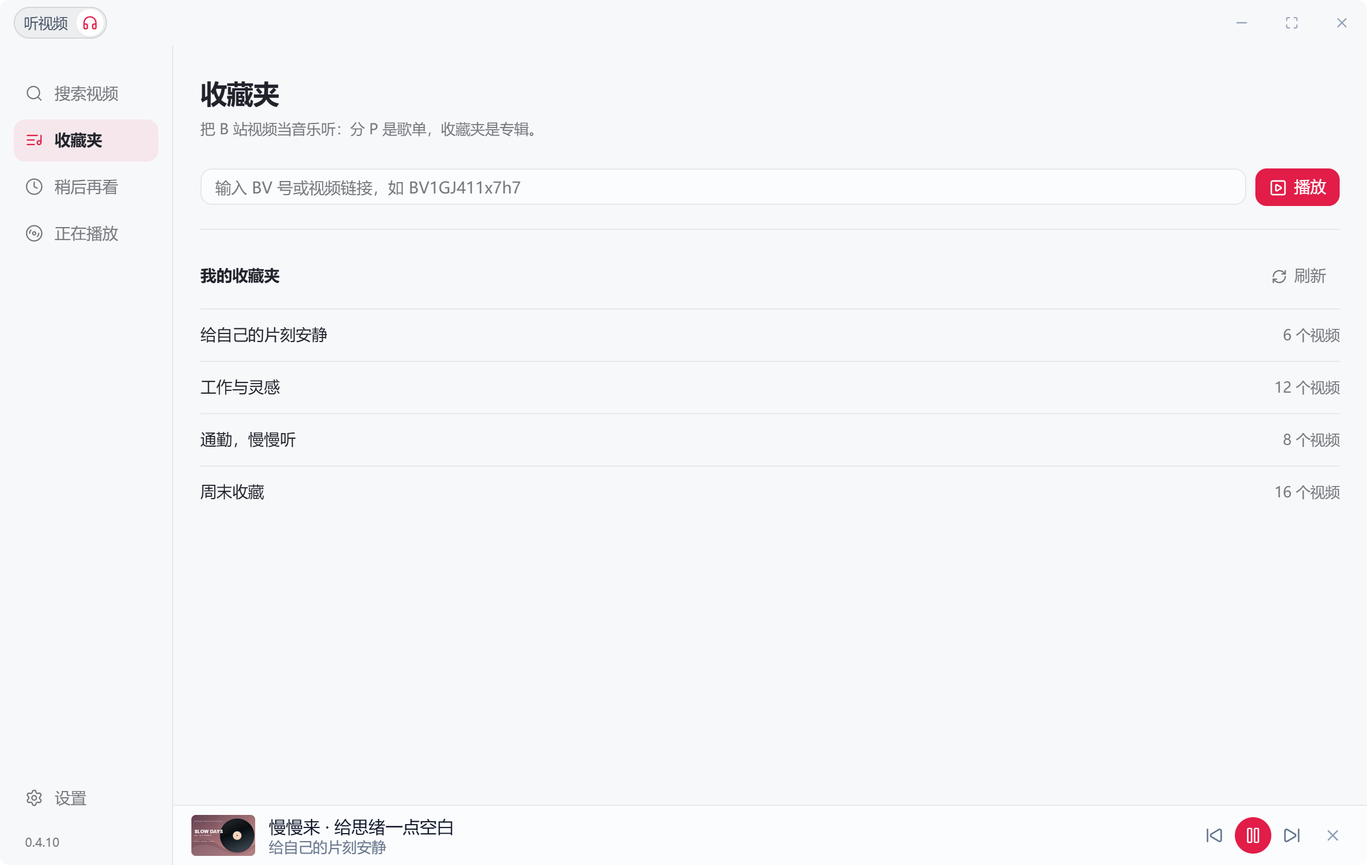
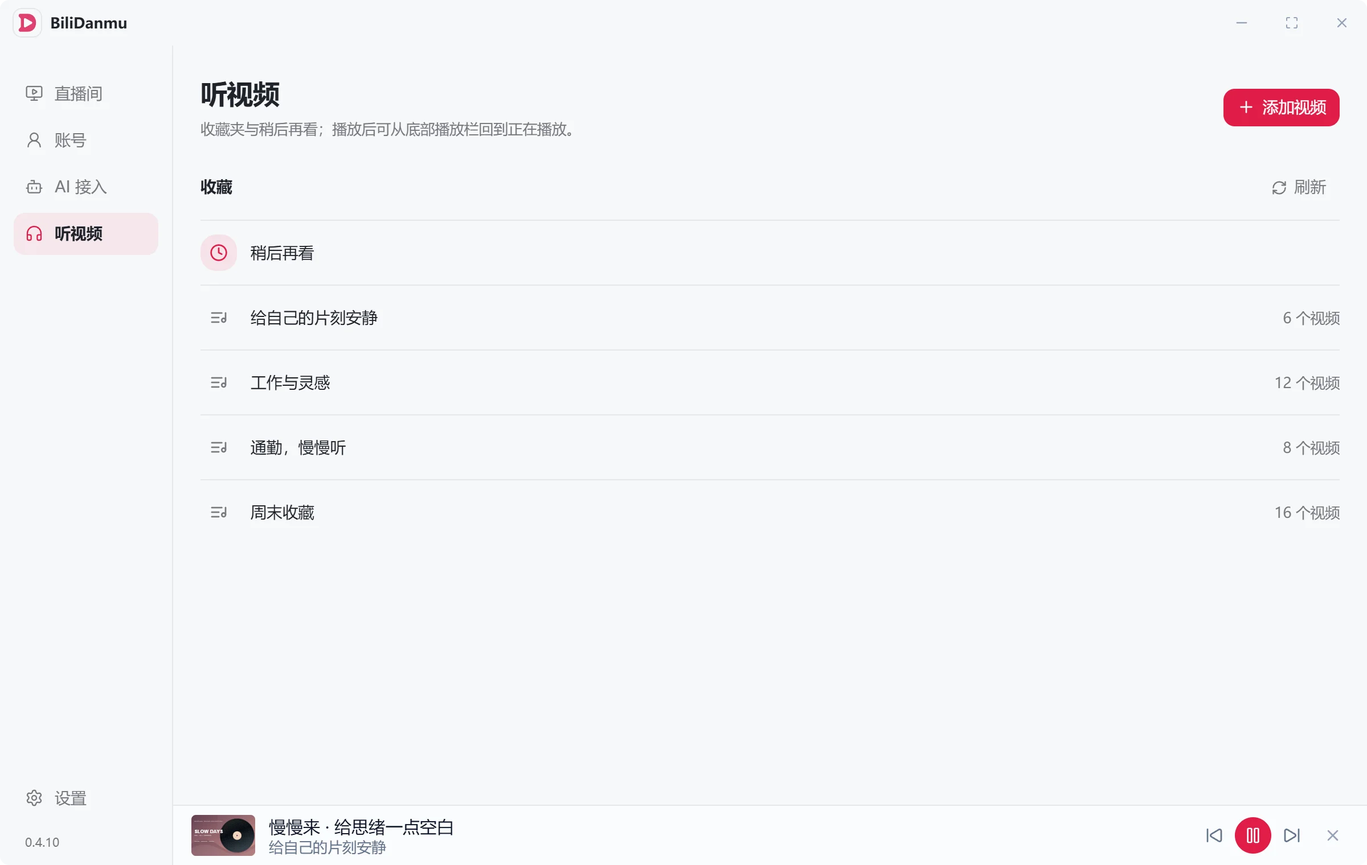
fix(docs): 恢复误删样式并对齐落地页素材与章节演示到新版界面

diff --git a/docs/.vitepress/theme/landing.css b/docs/.vitepress/theme/landing.css
@@ -7,11 +7,12 @@
 .lp-interaction-chapter{min-height:200svh}.lp-step-buttons{display:flex;flex-direction:column;gap:1px;margin-top:26px}.lp-step-buttons button{display:flex;align-items:center;gap:12px;text-align:left;background:transparent;border:0;border-bottom:1px solid var(--lp-line);padding:13px 0;color:#8996a4;font-size:12px;transition:color .2s}.lp-step-buttons button>span:first-child{font-size:9px;color:#b2bbc6}.lp-step-buttons button>span:last-child{margin-left:auto;opacity:0}.lp-step-buttons button[aria-pressed=true]{color:var(--lp-accent)}.lp-step-buttons button[aria-pressed=true]>span:last-child{opacity:1}.lp-step-buttons button:hover{color:var(--lp-ink)}.lp-reset-demo{padding:0;background:transparent;border:0;color:#8b9aaa;font-size:10px;margin-top:15px}.lp-interaction-board{background:#f7f9fc;border:1px solid #dde5ef;border-radius:15px;box-shadow:0 22px 55px #354b6c12;max-width:620px;width:100%;margin-left:auto;overflow:hidden;font-size:13px}.lp-board-top{padding:17px 22px;display:flex;justify-content:space-between;align-items:center;border-bottom:1px solid #e3e9f0;font-size:10px;color:#8a9bae}.lp-board-top>div{display:flex;align-items:center;gap:9px}.lp-board-top strong{font-size:13px;font-weight:600;color:#4c627c}.lp-interaction-tabs{display:flex;gap:24px;padding:12px 22px;background:#f2f5f9;font-size:11px;color:#98a8b9}.lp-interaction-tabs .active{color:#dd4c73}.lp-message-stage{padding:20px 22px 0;min-height:389px}.lp-superchat{margin-bottom:17px;border-radius:6px;overflow:hidden;background:#e8f2ff;color:#3f6e9f;font-size:12px}.lp-superchat>div{display:flex;justify-content:space-between;padding:7px 10px}.lp-superchat p{padding:10px;background:#4a77a7;color:white;font-size:14px}.lp-message-line{display:flex;flex-wrap:wrap;gap:7px;margin-top:13px;align-items:center;font-size:12px;line-height:1.6}.lp-message-line b{font-weight:600}.lp-fan-badge{background:#bc83aa;color:#fff;font-size:9px;padding:1px 4px;border-radius:3px}.lp-blue-name{color:#3181c5}.lp-own-message{color:#576b82}.lp-own-message b{color:#dd4c73}.lp-inline-panel{margin-top:25px;background:#fff;border:1px solid #e0e7ef;border-radius:9px;padding:13px 15px;min-height:100px}.lp-panel-label{display:block;font-size:10px;color:#9aa8b9;margin-bottom:10px}.lp-inline-panel p{font-size:9px;color:#9aa8b9;margin-top:10px;line-height:1.6}.lp-filter-panel>div{display:flex;align-items:center;gap:17px;font-size:11px;color:#a0afbe}.lp-filter-chip{color:#df4e79;background:#f9e8ef;padding:3px 9px;border-radius:4px}.lp-muted-chip{margin-left:auto;border:1px solid #e2e7ed;padding:3px 8px;border-radius:4px;font-size:9px}.lp-emoticon-demo{display:flex;gap:9px;align-items:center}.lp-emoticon-demo button{display:grid;place-items:center;height:32px;min-width:35px;background:#f5f7fb;border:1px solid #e8edf3;border-radius:5px;font-size:20px;color:#e3567d}.lp-emoticon-demo button:last-child{display:flex;gap:12px;margin-left:auto;font-size:10px;padding:0 9px;color:#788ba1}.lp-emoticon-demo button:hover{border-color:#e68ba5}.lp-account-demo{display:flex;align-items:center;gap:10px;font-size:11px}.lp-avatar{display:grid;place-items:center;width:24px;height:24px;border-radius:50%;background:#e5edf7;color:#6d85a1;font-size:9px}.lp-state-pill{font-size:9px;color:#a18ba6;margin-left:auto}.lp-automation-demo{display:flex;justify-content:space-between;margin-top:13px;font-size:10px;color:#75869a}.lp-automation-demo small{font-size:8px;padding-left:8px;color:#9fabb9}.lp-demo-composer{margin:21px 22px 0;display:flex;border-top:1px solid #e1e7ef;padding-top:12px;gap:12px}.lp-demo-composer input{width:100%;min-width:0;background:transparent;border:0;outline-offset:2px;font-size:12px;color:#485d74}.lp-demo-composer input::placeholder{color:#a1afbf}.lp-demo-composer button{white-space:nowrap;background:#e7517b;color:white;border:0;border-radius:5px;padding:6px 11px;font-size:10px}.lp-demo-composer button:disabled{opacity:.4;cursor:default}.lp-demo-foot{display:flex;justify-content:space-between;padding:12px 22px 15px;color:#a5b0bd;font-size:8px;gap:10px}
 .lp-listen-chapter{min-height:200svh;background:linear-gradient(180deg,#fcfdff,#f8f5f8 35%,#f8f5f8 75%,#fcfdff)}.lp-listen-guide{margin-top:25px}.lp-listen-visual{min-width:0;margin-right:-24px;position:relative}.lp-listen-screen{position:relative;aspect-ratio:2400/1520;border:1px solid #e0e5ed;border-radius:11px;box-shadow:0 23px 55px #4e597419;overflow:hidden;transform:perspective(1400px) rotateY(-4deg) rotateZ(-2deg);background:#f7f8fa}.lp-listen-screen img{position:absolute;inset:0;width:100%;height:auto;opacity:0;transform:translateX(14px);transition:opacity .35s var(--lp-ease),transform .35s var(--lp-ease)}.lp-listen-screen img.active{opacity:1;transform:none}.lp-listen-status{display:flex;align-items:center;gap:12px;margin-top:30px;color:#8b9aaa;font-size:10px}.lp-listen-status>span:last-child{margin-left:auto;color:#a5afbb;font-size:9px}.lp-equalizer{height:19px;display:flex;gap:3px;align-items:center}.lp-equalizer i{display:block;width:2px;height:5px;border-radius:2px;background:#cf7590}.lp-equalizer.is-playing i{animation:lp-meter .85s ease-in-out infinite alternate}.lp-equalizer i:nth-child(2){animation-delay:-.5s}.lp-equalizer i:nth-child(3){animation-delay:-.2s}.lp-equalizer i:nth-child(4){animation-delay:-.7s}@keyframes lp-meter{to{transform:scaleY(3)}}
 .lp-reading{display:grid;grid-template-columns:1fr 1.15fr;gap:130px;align-items:center;padding-block:100px 150px}.lp-reading h2{font-size:35px}.lp-reading .lp-text-link{margin-top:25px}.lp-subtitle-demo{padding:0 8px}.lp-subtitle-top{display:flex;justify-content:space-between;font-size:10px;color:#9aa8b7;border-bottom:1px solid var(--lp-line);padding-bottom:17px}.lp-subtitle-demo>button{width:100%;display:flex;align-items:center;gap:17px;padding:21px 0;border:0;background:transparent;text-align:left;font-size:15px;color:#a5afbc;transition:color .25s,transform .25s var(--lp-ease)}.lp-subtitle-demo>button time{font-size:10px;color:#aab5c1;font-variant-numeric:tabular-nums}.lp-subtitle-demo>button>span:last-child{margin-left:auto;opacity:0}.lp-subtitle-demo>button.active{color:var(--lp-accent);transform:translateX(7px)}.lp-subtitle-demo>button.active>span:last-child{opacity:1}.lp-subtitle-demo>p{font-size:10px;color:#aab5c1;padding-top:15px;border-top:1px solid var(--lp-line)}
-.lp-appearance{background:#f1f4f8;padding-block:110px}.lp-appearance-grid{display:grid;grid-template-columns:.8fr 1.2fr;gap:100px;align-items:center}.lp-appearance-controls{display:flex;gap:25px;align-items:center;margin-top:30px}.lp-theme-toggle{display:flex;gap:3px;padding:3px;background:#e7ecf2;border-radius:7px}.lp-theme-toggle button{padding:8px 13px;border:0;border-radius:5px;background:transparent;color:#91a0b0;font-size:11px}.lp-theme-toggle button[aria-pressed=true]{background:#fff;color:#44586e;box-shadow:0 1px 4px #24364b0b}.lp-color-options{display:flex;gap:10px}.lp-color-options button{width:21px;height:21px;border:0;border-radius:50%;color:#fff;font-size:11px;display:grid;place-items:center}.lp-small-copy{font-size:10px!important;color:#97a4b3!important}.lp-theme-preview{--preview-bg:#fafbfd;--preview-soft:#f1f4f8;--preview-ink:#3e5269;--preview-muted:#94a4b5;--preview-line:#e2e8f0;background:var(--preview-bg);border:1px solid #dce4ed;border-radius:13px;overflow:hidden;box-shadow:0 20px 45px #34486117;transition:background .25s,color .25s;transform:rotate(-2deg);color:var(--preview-ink)}.lp-theme-preview.is-dark{--preview-bg:#232b39;--preview-soft:#202735;--preview-ink:#dce4f1;--preview-muted:#8898ae;--preview-line:#384458;border-color:#404d61}.lp-theme-bar{height:46px;display:flex;gap:9px;align-items:center;padding:0 16px;font-size:11px;border-bottom:1px solid var(--preview-line);background:var(--preview-soft)}.lp-theme-bar>span:last-child{margin-left:auto;color:var(--preview-muted);font-size:9px}.lp-theme-bar img{object-fit:contain}.lp-theme-body{display:grid;grid-template-columns:100px 1fr;min-height:250px}.lp-theme-body aside{display:flex;flex-direction:column;gap:22px;padding:23px 14px;background:var(--preview-soft);font-size:11px;color:var(--preview-muted)}.lp-theme-body aside b{font-weight:500;color:var(--preview-accent)}.lp-theme-body>div{padding:25px 22px}.lp-theme-heading{display:flex;align-items:center;justify-content:space-between;margin-bottom:19px}.lp-theme-heading h3{font-size:15px;font-weight:600}.lp-theme-heading>span{font-size:9px;color:var(--preview-muted)}.lp-theme-room{display:flex;align-items:center;gap:12px;padding:12px 0;border-bottom:1px solid var(--preview-line)}.lp-theme-room:last-child{border-bottom:0}.lp-theme-room img{width:57px;height:38px;object-fit:cover;border-radius:4px}.lp-theme-room>span:nth-child(2){min-width:0}.lp-theme-room b{display:block;font-size:11px;font-weight:500}.lp-theme-room small{display:block;font-size:9px;color:var(--preview-muted);max-width:200px;text-overflow:ellipsis;overflow:hidden;white-space:nowrap;margin-top:4px}.lp-preview-live{margin-left:auto;color:var(--preview-accent);font-size:9px;white-space:nowrap}.lp-theme-footer{padding:11px 17px;background:var(--preview-soft);color:var(--preview-muted);font-size:9px;border-top:1px solid var(--preview-line)}
+.lp-appearance{background:#f1f4f8;padding-block:110px}.lp-appearance-grid{display:grid;grid-template-columns:.8fr 1.2fr;gap:100px;align-items:center}.lp-appearance-controls{display:flex;gap:25px;align-items:center;margin-top:30px}.lp-theme-toggle{display:flex;gap:3px;padding:3px;background:#e7ecf2;border-radius:7px}.lp-theme-toggle button{padding:8px 13px;border:0;border-radius:5px;background:transparent;color:#91a0b0;font-size:11px}.lp-theme-toggle button[aria-pressed=true]{background:#fff;color:#44586e;box-shadow:0 1px 4px #24364b0b}.lp-color-options{display:flex;gap:10px}.lp-color-options button{width:21px;height:21px;border:0;border-radius:50%;color:#fff;font-size:11px;display:grid;place-items:center}.lp-small-copy{font-size:10px!important;color:#97a4b3!important}.lp-theme-preview{--preview-bg:#fafbfd;--preview-soft:#f1f4f8;--preview-ink:#3e5269;--preview-muted:#94a4b5;--preview-line:#e2e8f0;background:var(--preview-bg);border:1px solid #dce4ed;border-radius:13px;overflow:hidden;box-shadow:0 20px 45px #34486117;transition:background .25s,color .25s;transform:rotate(-2deg);color:var(--preview-ink)}.lp-theme-preview.is-dark{--preview-bg:#232b39;--preview-soft:#202735;--preview-ink:#dce4f1;--preview-muted:#8898ae;--preview-line:#384458;border-color:#404d61}.lp-theme-bar{height:46px;display:flex;gap:9px;align-items:center;padding:0 16px;font-size:11px;border-bottom:1px solid var(--preview-line);background:var(--preview-soft)}.lp-theme-bar>span:last-child{margin-left:auto;color:var(--preview-muted);font-size:9px}.lp-theme-bar img{object-fit:contain}.lp-theme-body{display:grid;grid-template-columns:100px 1fr;min-height:250px}.lp-theme-body aside{display:flex;flex-direction:column;gap:22px;padding:23px 14px;background:var(--preview-soft);font-size:11px;color:var(--preview-muted)}.lp-theme-body aside b{font-weight:500;color:var(--preview-accent)}.lp-theme-body>div{padding:25px 22px}.lp-theme-heading{display:flex;align-items:center;justify-content:space-between;margin-bottom:19px}.lp-theme-heading h3{font-size:15px;font-weight:600}.lp-theme-heading>span{font-size:9px;color:var(--preview-muted)}.lp-theme-room{display:flex;align-items:center;gap:12px;padding:12px 0;border-bottom:1px solid var(--preview-line)}.lp-theme-room:last-child{border-bottom:0}.lp-theme-room img{width:57px;height:38px;object-fit:cover;border-radius:4px}.lp-theme-room>span:nth-child(2){min-width:0}.lp-theme-room b{display:block;font-size:11px;font-weight:500}.lp-theme-room small{display:block;font-size:9px;color:var(--preview-muted);max-width:200px;text-overflow:ellipsis;overflow:hidden;white-space:nowrap;margin-top:4px}.lp-preview-live{margin-left:auto;color:var(--preview-accent);font-size:9px;white-space:nowrap}.lp-theme-footer{padding:11px 17px;background:var(--preview-soft);color:var(--preview-muted);font-size:9px;border-top:1px solid var(--preview-line)}.lp-section-heading{display:flex;align-items:flex-end;justify-content:space-between;gap:40px;margin-bottom:45px}.lp-section-heading>p{font-size:12px;color:#8493a4;line-height:1.9}.lp-section-heading h2{font-size:34px}.lp-start-section{background:#f4f6f9;padding-block:90px 100px}.lp-start-steps{list-style:none;margin:55px 0 0;padding:0;display:grid;grid-template-columns:repeat(3,minmax(0,1fr));gap:65px}.lp-start-steps li{border-top:1px solid #dce3eb;padding-top:23px}.lp-start-steps li>span{font-size:11px;color:#a1aebb}.lp-start-steps h3{font-size:18px;font-weight:550;margin-top:15px;letter-spacing:-.03em}.lp-start-steps p{font-size:12px;line-height:1.9;color:#8796a7;margin-top:12px;min-height:50px}.lp-start-steps a{display:inline-block;margin-top:22px;font-size:11px;color:#5e738a}.lp-start-steps a:hover{color:var(--lp-accent)}
 .lp-faq{display:grid;grid-template-columns:.75fr 1.25fr;gap:100px;padding-block:110px}.lp-faq h2{font-size:30px}.lp-faq-list details{border-bottom:1px solid var(--lp-line)}.lp-faq-list details:first-child{border-top:1px solid var(--lp-line)}.lp-faq-list summary{list-style:none;display:flex;align-items:center;justify-content:space-between;gap:20px;padding:21px 0;font-size:13px;cursor:pointer}.lp-faq-list summary::-webkit-details-marker{display:none}.lp-faq-list summary>span{font-size:15px;color:#95a5b5;transition:transform .2s}.lp-faq-list details[open] summary>span{transform:rotate(45deg)}.lp-faq-list details p{padding:0 32px 22px 0;font-size:12px;line-height:1.9;color:#8795a6}.lp-faq-list details a{color:var(--lp-accent);text-decoration:underline}.lp-final-cta{text-align:center;padding-block:40px 110px}.lp-final-cta>img{display:block;object-fit:contain;margin:auto auto 16px}.lp-final-cta h2{font-size:37px;line-height:1.45}.lp-final-cta .lp-button{margin-top:29px}.lp-final-cta>p{font-size:10px;color:#9dabb8;margin-top:17px}.lp-footer{display:flex;flex-wrap:wrap;align-items:center;gap:25px;padding-block:28px;border-top:1px solid var(--lp-line)}.lp-footer .lp-brand{font-size:17px}.lp-footer>p{font-size:11px;color:#9aa6b5}.lp-footer>div{margin-left:auto;display:flex;gap:24px;color:#8393a6;font-size:11px}.lp-footer small{flex-basis:100%;font-size:9px;color:#b0bac7;padding-left:42px}.lp-footer a:hover{color:var(--lp-accent)}
 .lp-film-dialog{width:min(1100px,calc(100vw - 40px));max-height:calc(100svh - 40px);border:1px solid #dfe5ed;border-radius:14px;background:#fcfdff;color:#354861;padding:0;overflow:auto;box-shadow:0 30px 90px #15223945}.lp-film-dialog::backdrop{background:#182438b8;backdrop-filter:blur(7px)}.lp-film-dialog-inner>div{display:flex;align-items:center;justify-content:space-between;padding:17px 22px;gap:20px}.lp-film-dialog h2{font-size:13px;letter-spacing:0;font-weight:550}.lp-film-dialog button{border:0;background:transparent;color:#7f8fa2;font-size:12px;padding:5px;cursor:pointer}.lp-film-dialog video{width:100%;display:block;max-height:76svh;background:#f4f7fc}.lp-film-dialog p{font-size:10px;color:#9eabba;padding:14px 22px}.lp-mobile-only{display:none}.lp-reveal.is-visible{animation:lp-reveal .65s var(--lp-ease) both}@keyframes lp-reveal{from{opacity:.2;transform:translateY(18px)}to{opacity:1;transform:translateY(0)}}
 @media(min-width:1700px){.lp-hero-stage{max-width:770px}.lp-chapter-inner{gap:70px}.lp-hero{min-height:830px}}
 @media(max-width:1100px){.lp-container{width:calc(100% - 60px)}.lp-nav-wrap{width:calc(100% - 48px);gap:20px}.lp-nav{gap:18px}.lp-hero{grid-template-columns:46% 54%;padding-block:80px 100px}.lp-hero h1{font-size:47px}.lp-hero-stage{width:calc(100% + 20px)}.lp-hero-actions{gap:18px;flex-wrap:wrap}.lp-chapter-inner{gap:30px;grid-template-columns:.8fr 1.4fr}.lp-chapter-copy>p:not(.lp-section-number){font-size:13px}.landing h2{font-size:35px}.lp-interaction-tabs{gap:18px}.lp-reading{gap:70px}.lp-appearance-grid{gap:50px}.lp-theme-body{grid-template-columns:80px 1fr}.lp-theme-body>div{padding:23px 17px}.lp-preview-live{display:none}.lp-message-stage{padding:18px 18px 0}.lp-theme-room small{max-width:145px}.lp-start-steps{gap:35px}.lp-faq{gap:60px}.lp-emoticon-demo button:last-child{font-size:9px}.lp-system-note{font-size:10px}}
+@media(max-width:800px){.lp-container{width:calc(100% - 40px)}.lp-header{height:66px}.lp-nav-wrap{width:calc(100% - 32px);gap:13px}.lp-brand{font-size:20px;gap:6px}.lp-brand img{width:35px;height:35px}.lp-nav{display:none;position:absolute;top:66px;left:0;right:0;background:#fcfdff;padding:22px;border-bottom:1px solid var(--lp-line);box-shadow:0 15px 24px #2836480a;margin:0;gap:23px}.lp-nav.is-open{display:flex;flex-wrap:wrap}.lp-nav-wrap>.lp-button{margin-left:auto}.lp-menu-button{display:block}.lp-desktop-label{display:none}.lp-button-small{padding:9px 12px}.lp-nav-wrap>.lp-button-small>span:last-child{margin-left:0}.lp-hero{grid-template-columns:1fr;min-height:0;padding:65px 0 70px}.lp-hero-copy{max-width:550px}.lp-hero h1{font-size:clamp(40px,7.8vw,57px)}.lp-hero-description{font-size:14px}.lp-eyebrow{font-size:10px;margin-bottom:22px!important}.lp-hero-stage{width:100%;max-width:670px;margin:20px auto 0;aspect-ratio:1.7}.lp-hero-player{width:77%;left:5%;top:27%}.lp-hero-danmaku{width:26%;right:5%;top:4%}.lp-hero-note{bottom:1%;left:12%;font-size:10px}.lp-scene-label{bottom:-8%;right:6%;font-size:8px}.lp-hero-glow{inset:0}.lp-scroll-cue{bottom:13px;font-size:10px}.lp-film-link{margin-top:23px}.lp-system-note{font-size:10px}.lp-feature-rail{font-size:10px;gap:14px;justify-content:flex-start;flex-wrap:wrap;padding-block:20px}.lp-feature-rail i{width:2px;height:2px}.lp-feature-rail i:last-of-type{display:none}.lp-feature-rail>span:last-child{display:none}.lp-chapter{min-height:155svh;padding-block:35px 75px}.lp-chapter-inner{top:73px;min-height:0;grid-template-columns:1fr;gap:30px;padding-block:20px;align-content:start}.lp-chapter-copy{display:block;max-width:620px}.landing h2{font-size:32px}.lp-section-number{font-size:10px;margin-bottom:12px!important}.lp-chapter-copy>p:not(.lp-section-number){max-width:550px;font-size:12px;margin-top:15px;line-height:1.85}.lp-tick-list{display:flex;flex-wrap:wrap;gap:2px 16px;margin:13px 0 15px;font-size:10px}.lp-demo-wrap,.lp-listen-visual{margin:0}.lp-demo-caption{font-size:8px}.lp-step-buttons{flex-direction:row;gap:15px;margin-top:20px}.lp-step-buttons button{flex:1;padding:9px 0;gap:6px;font-size:10px}.lp-step-buttons button>span:last-child{display:none}.lp-step-buttons button>span:first-child{font-size:8px}.lp-interaction-board{margin:auto;max-width:600px}.lp-message-stage{min-height:320px;padding:15px 18px 0}.lp-message-line{margin-top:9px}.lp-inline-panel{margin-top:18px;padding:11px 13px}.lp-listen-guide{margin-top:17px;font-size:11px}.lp-listen-screen{transform:none}.lp-listen-status{margin-top:20px}.lp-reading{grid-template-columns:1fr;gap:45px;padding-block:60px 85px}.lp-reading h2{font-size:29px}.lp-reading>div>p:not(.lp-section-number){max-width:550px;font-size:12px}.lp-appearance{padding-block:75px}.lp-appearance-grid{grid-template-columns:1fr;gap:45px}.lp-appearance-grid>div>p:not(.lp-section-number){max-width:550px;font-size:12px}.lp-theme-preview{max-width:610px;width:100%;margin:auto;transform:none}.lp-theme-room small{max-width:240px}.lp-preview-live{display:block}.lp-theme-body{grid-template-columns:100px 1fr}.lp-section-heading{display:block;margin-bottom:30px}.lp-section-heading>p{margin-top:20px;font-size:11px}.lp-section-heading h2{font-size:29px}.lp-start-section{padding-block:65px}.lp-start-section .lp-section-heading .lp-text-link{margin-top:19px}.lp-start-steps{gap:25px}.lp-start-steps h3{font-size:15px}.lp-start-steps p{font-size:11px}.lp-faq{grid-template-columns:1fr;gap:35px;padding-block:70px}.lp-faq h2{font-size:27px}.lp-final-cta{padding-bottom:75px}.lp-final-cta h2{font-size:30px}.lp-footer{gap:13px 20px}.lp-footer>div{flex-basis:100%;margin-left:0;gap:27px}.lp-footer small{padding-left:0}.lp-footer>p{font-size:10px}}
 @media(max-width:480px){.lp-hero{padding-top:45px}.lp-hero h1{font-size:41px}.lp-hero-stage{margin-top:35px;aspect-ratio:1.35}.lp-hero-player{width:88%;left:0;top:33%}.lp-hero-danmaku{width:32%;right:0;top:7%}.lp-hero-note{bottom:0;left:7%;font-size:8px}.lp-scene-label{bottom:-7%}.lp-hero-actions{gap:20px}.lp-button{font-size:12px;padding:13px 16px}.lp-button-small{padding:8px 10px;font-size:11px}.lp-hero-description{font-size:13px}.lp-feature-rail{font-size:9px;gap:9px}.lp-feature-rail i{display:none}.lp-feature-rail span{flex-basis:calc(50% - 5px)}.lp-chapter{min-height:148svh}.lp-chapter-inner{gap:24px}.landing h2{font-size:28px}.lp-tick-list{display:block;font-size:9px;line-height:1.9}.lp-tick-list li:before{margin-right:7px}.lp-demo-caption{flex-wrap:wrap;gap:5px}.lp-step-buttons{gap:9px}.lp-step-buttons button{font-size:9px;align-items:flex-start}.lp-step-buttons button>span:first-child{display:none}.lp-board-top{padding:13px 15px}.lp-interaction-tabs{padding:9px 15px;gap:18px;font-size:9px}.lp-message-stage{padding:13px 14px 0;min-height:300px}.lp-superchat p{font-size:12px}.lp-message-line{font-size:10px}.lp-inline-panel{padding:10px;min-height:92px}.lp-emoticon-demo{gap:6px}.lp-emoticon-demo button{min-width:28px;height:28px;font-size:16px}.lp-emoticon-demo button:last-child{font-size:8px;padding:0 6px;gap:2px}.lp-filter-panel>div{gap:11px;font-size:10px}.lp-muted-chip{font-size:8px;padding:3px 5px}.lp-demo-composer{margin:15px 14px 0}.lp-demo-foot{padding:10px 14px;font-size:7px}.lp-listen-status{font-size:9px;gap:9px}.lp-listen-status>span:last-child{font-size:7px}.lp-subtitle-demo>button{font-size:12px;gap:11px}.lp-subtitle-demo>button time{font-size:8px}.lp-subtitle-demo>button>span:last-child{font-size:10px}.lp-appearance-controls{gap:20px}.lp-theme-body{grid-template-columns:68px 1fr}.lp-theme-body aside{font-size:9px;padding:20px 10px}.lp-theme-body>div{padding:20px 12px}.lp-theme-room{gap:8px}.lp-theme-room img{width:43px;height:31px}.lp-theme-room b{font-size:9px}.lp-theme-room small{font-size:8px;max-width:150px}.lp-preview-live{display:none}.lp-theme-heading h3{font-size:12px}.lp-theme-heading>span{font-size:8px}.lp-start-steps{grid-template-columns:1fr;gap:30px;margin-top:35px}.lp-start-steps p{min-height:0;max-width:350px}.lp-start-steps a{margin-top:14px}.lp-start-steps li{padding-top:18px}.lp-start-steps h3{font-size:17px}.lp-faq-list summary{font-size:12px}.lp-final-cta h2{font-size:27px}.lp-mobile-only{display:initial}.lp-wide-only{display:none}.lp-film-dialog-inner>div{padding:12px 15px}.lp-film-dialog h2{font-size:11px}.lp-film-dialog p{padding:11px 15px;font-size:8px}}
 @media(prefers-reduced-motion:reduce){html{scroll-behavior:auto!important}.landing *,.landing *:before,.landing *:after{animation:none!important;transition:none!important}.lp-chapter{min-height:0}.lp-chapter-inner{position:relative;top:auto;min-height:0}.lp-hero-player,.lp-hero-danmaku,.lp-listen-screen,.lp-theme-preview{transform:none}.lp-subtitle-demo>button.active{transform:none}}
 
@@ -22,3 +23,10 @@
 .lp-highlight-grid li:hover{border-color:var(--lp-accent,#c73d66);transform:translateY(-2px)}
 .lp-highlight-grid svg{width:26px;height:26px;color:var(--lp-accent,#c73d66)}
 @media (max-width:900px){.lp-highlight-grid{grid-template-columns:repeat(3,1fr)}}
+
+/* 03 章真实截图轮播（弹幕窗竖图 + 设置面板） */
+.lp-interaction-visual{display:flex;flex-direction:column;align-items:center;gap:16px;min-width:0}
+.lp-interaction-screen{position:relative;width:100%;max-width:460px;aspect-ratio:1040/1420;border:1px solid var(--lp-line,#dce1e8);border-radius:16px;background:linear-gradient(160deg,#f7f9fc,#eef2f7);overflow:hidden;box-shadow:0 14px 34px #203c5217}
+.lp-interaction-screen img{position:absolute;inset:0;width:100%;height:100%;object-fit:contain;opacity:0;transform:translateY(10px);transition:opacity .35s ease,transform .35s ease}
+.lp-interaction-screen img.active{opacity:1;transform:none}
+.lp-interaction-status{display:flex;align-items:center;gap:14px;font-size:11px;color:#8493a4}

diff --git a/docs/.vitepress/theme/LandingPage.vue b/docs/.vitepress/theme/LandingPage.vue
@@ -51,9 +51,6 @@ const listenOverride = ref<number | null>(null)
 const listenView = computed(() => listenOverride.value ?? (reduced.value ? 0 : Math.min(2, Math.floor(progress.listen * 3))))
 const demoDark = ref(false)
 const demoAccent = ref('#e95780')
-const draft = ref('')
-const lastMessage = ref('把喜欢的声音，放在身边。')
-const sendNotice = ref('')
 const activeSubtitle = ref(1)
 const subtitleLines = [
   { time: '00:38', text: '把喜欢的声音，放在身边。' },
@@ -62,15 +59,9 @@ const subtitleLines = [
 ]
 const listenerScreens = ['listen-fav.webp', 'player-start.webp', 'listen-mini.webp']
 const listenerSteps = ['从收藏开始', '把视频当作音乐听', '逛别的页面，也继续听']
-const interactionSteps = ['消息，各就各位', '常用的话，随手就发', '身份与节奏，自己安排']
+const interactionScreens = ['danmaku-content.webp', 'danmaku-settings-panel.webp']
+const interactionSteps = ['消息，各就各位', '显示，随手可调']
 
-function submitDemo() {
-  const value = draft.value.trim()
-  if (!value) return
-  lastMessage.value = value
-  draft.value = ''
-  sendNotice.value = '已加入演示消息'
-}
 function openFilm() {
   filmDialog.value?.showModal()
   film.value?.play().catch(() => {})
@@ -187,20 +178,11 @@ onBeforeUnmount(() => {
       <section id="live" class="lp-chapter lp-interaction-chapter" data-story="together" :data-progress="progress.together.toFixed(3)">
         <div class="lp-chapter-inner lp-container">
           <div class="lp-chapter-copy"><p class="lp-section-number">03 / 直播间，也有条理</p><h2>每份热闹，<br/>都有<span>自己的位置。</span></h2><div class="lp-step-buttons" role="group" aria-label="选择直播互动演示"><button v-for="(title, i) in interactionSteps" :key="title" type="button" :aria-pressed="interactionView === i" @click="interactionOverride = i"><span>0{{ i + 1 }}</span>{{ title }}<span aria-hidden="true">↗</span></button></div><button v-if="interactionOverride !== null" class="lp-reset-demo" @click="interactionOverride = null">继续滚动演示 ↓</button></div>
-          <div class="lp-interaction-board" :data-state="interactionView">
-            <div class="lp-board-top"><div><span class="lp-live-dot"/><strong>星河电台</strong><span>正在直播</span></div><span>2.7k 在线</span></div>
-            <div class="lp-interaction-tabs"><span :class="{active:interactionView===0}">消息与筛选</span><span :class="{active:interactionView===1}">表情与模板</span><span :class="{active:interactionView===2}">账号与互动</span></div>
-            <div class="lp-message-stage">
-              <div class="lp-superchat"><div><b>拾光</b><span>¥30</span></div><p>愿每个夜晚，都有好音乐相伴。</p></div>
-              <div class="lp-message-line"><span class="lp-fan-badge">星河 12</span><b>晚风</b><span>晚上好，今天也来听歌啦</span></div>
-              <div class="lp-message-line"><b class="lp-blue-name">拾光</b><span>戴上耳机，世界安静了</span></div>
-              <div class="lp-message-line"><b>一颗橘子</b><span>前奏一响，心情就好了</span></div>
-              <div class="lp-message-line lp-own-message"><b>我</b><span>{{ lastMessage }}</span></div>
-              <div v-if="interactionView===0" class="lp-inline-panel lp-filter-panel"><span class="lp-panel-label">只留下想看的消息</span><div><span class="lp-filter-chip">全部</span><span>进场</span><span>点赞</span><span class="lp-muted-chip">关键词屏蔽</span></div><p>三栏独立滚动 · 向上翻阅时暂停跟随</p></div>
-              <div v-else-if="interactionView===1" class="lp-inline-panel"><span class="lp-panel-label">常用表情与快捷消息</span><div class="lp-emoticon-demo"><button type="button" @click="draft='[比心]'" aria-label="选择比心表情">♡</button><button type="button" @click="draft='[点赞]'" aria-label="选择点赞表情">👍</button><button type="button" @click="draft='[鼓掌]'" aria-label="选择鼓掌表情">👏</button><button type="button" @click="draft='晚上好，主播辛苦啦！'">晚上好，主播辛苦啦！ <span>↗</span></button></div><p>收藏表情 · 隐藏不常用表情包 · 复用消息模板</p></div>
-              <div v-else class="lp-inline-panel"><span class="lp-panel-label">发送身份，独立选择</span><div class="lp-account-demo"><span class="lp-avatar">我</span><b>我的账号</b><span class="lp-state-pill">当前发送身份</span></div><div class="lp-automation-demo"><span>循环发送 <small>文字 / 表情</small></span><span>按设定间隔</span></div><p>自动发送与点赞，进度可见，随时停止。</p></div>
+          <div class="lp-interaction-visual" :data-state="interactionView">
+            <div class="lp-interaction-screen">
+              <img v-for="(file,i) in interactionScreens" :key="file" :src="asset(file)" width="1040" height="1520" loading="lazy" :alt="interactionSteps[i]" :class="{active:interactionView===i}" :aria-hidden="interactionView!==i"/>
             </div>
-            <form class="lp-demo-composer" @submit.prevent="submitDemo"><label class="lp-sr-only" for="demo-message">输入演示弹幕</label><input id="demo-message" v-model="draft" maxlength="40" placeholder="试着发一句演示弹幕…" @input="sendNotice=''"/><button type="submit" :disabled="!draft.trim()" aria-label="发送演示弹幕">发送 <span aria-hidden="true">↗</span></button></form><div class="lp-demo-foot"><span>交互演示 · 不连接真实直播间</span><span role="status" aria-live="polite">{{ sendNotice }}</span></div>
+            <div class="lp-interaction-status"><span>{{ interactionSteps[interactionView] }}</span><span>真实界面演示</span></div>
           </div>
         </div>
       </section>

diff --git a/docs/.vitepress/theme/components/DesktopDemo.vue b/docs/.vitepress/theme/components/DesktopDemo.vue
@@ -41,13 +41,10 @@ const automaticOpacity = computed(() => {
 const opacity = computed(() => Math.round(manualOpacity.value ?? automaticOpacity.value))
 const automaticOpen = computed(() => {
   if (props.reduced) return 1
+  // 滚动单调驱动：向下滚 = 侧边栏从右往左滑出，向上滚 = 收回。区间过后保持，回滚反向。
   const p = progress.value
-  if (p < 0.18) return 1
-  if (p < 0.3) return 1 - smooth((p - 0.18) / 0.12)
-  if (p < 0.46) return 0
-  if (p < 0.58) return smooth((p - 0.46) / 0.12)
-  if (p < 0.75) return 1
-  return 1 - smooth((p - 0.75) / 0.12)
+  if (p < 0.08) return 0
+  return smooth((p - 0.08) / 0.3)
 })
 const openAmount = computed(() => props.mode === 'opacity' ? 1 : manualDock.value === null ? automaticOpen.value : Number(manualDock.value))
 const state = computed(() => props.mode === 'opacity' ? 'visible' : openAmount.value >= 0.98 ? 'expanded' : openAmount.value <= 0.02 ? 'collapsed' : 'sliding')
@@ -66,7 +63,7 @@ const cursor = computed(() => {
 const dockHint = computed(() => {
   if (props.reduced) return '点击右侧边条展开，也可用下方按钮收起。'
   if (isManual.value) return state.value === 'collapsed' ? '已收起。靠近右侧边条即可重新展开。' : '移开鼠标，窗口自动收起；按 Esc 也可收起。'
-  return '继续向下滚动，或将鼠标移到右侧边条试试。'
+  return '向下滚动，侧边栏从右滑出；向上滚动收回。'
 })
 
 function updateOpacity(event: Event) {
